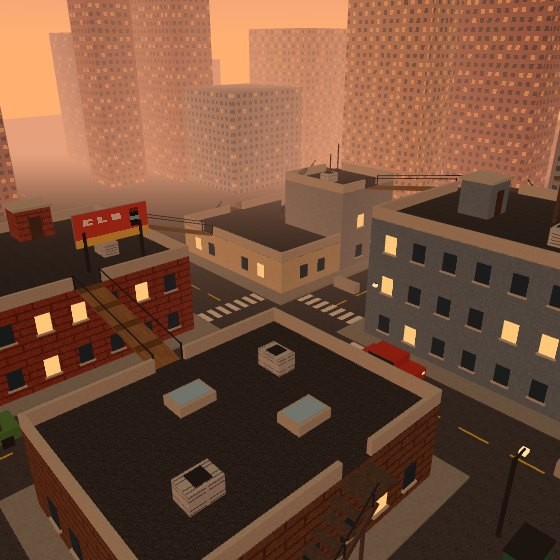
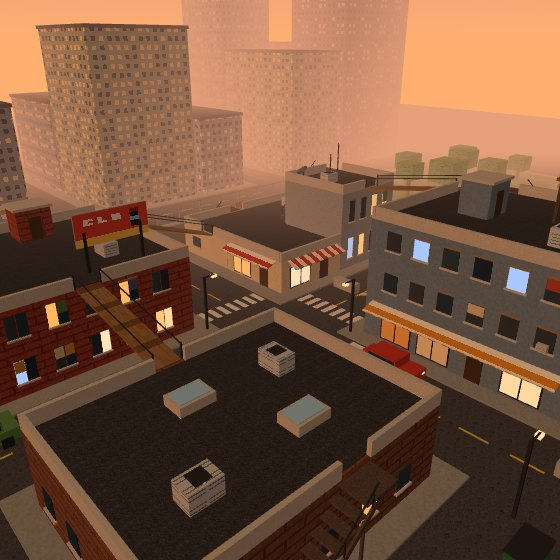
Rooftops: the sun sits in the sky behind the skyline; the dish has a mount; windows vary (paired, tall, wide, curtains, window AC units, lintels) with shop fronts, striped awnings and doors; no more flickering lines where roofs meet their walls; a bigger play area inside a chain-link fence, a ring r

diff --git a/js/maps/roofs.js b/js/maps/roofs.js
@@ -1,12 +1,12 @@
 startMap('roofs', {
-  name: 'Rooftops', size: 'small', half: 24,
-  env: { sky: 0xf2a878, fog: 0xe7a07c, fogNear: 30, fogFar: 110, hemiSky: 0xffd6b0, hemiGround: 0x5a4660, hemi: 1, sunColor: 0xffb47a, sun: 1.25, sunDir: [-22, 9, 14] },
+  name: 'Rooftops', size: 'small', half: 27,
+  env: { sky: 0xf2a878, fog: 0xe7a07c, fogNear: 30, fogFar: 110, hemiSky: 0xffd6b0, hemiGround: 0x5a4660, hemi: 1, sunColor: 0xffb47a, sun: 1.25, sunDir: [-24, 8, 3] },
   pads: [[-12, -11, 6], [9, -9, 3], [-12, 10, 4.5], [0, 14, 0]],
   crates: [[-20, 21.5, 1], [-18.8, 22, 0], [-8, 22.5, 0], [-12, -22.5, 0], [15, -22.5, 1], [16.2, -22.6, 0], [22.6, -15, 0], [22.6, -13.8, 0], [22.5, 12, 1]],
 });
 {
 const M = MAPS.roofs, RA = M.half, rnd = seeded(5150);
-const G = 140;
+const G = 140, RING = 31.5; // ground size, the ring road round the fence
 const wall = (rgb, k = 12, lines) => tex(g => { noise(g, rgb, k); if (lines) lines(g); });
 addGround(G, lam({ map: tex(g => { noise(g, [72, 70, 74], 14); g.fillStyle = 'rgba(0,0,0,.18)'; for (let i = 0; i < 5; i++) g.fillRect(Math.random() * 16 | 0, Math.random() * 16 | 0, 2, 1); }, G * 2, G * 2) }));
 addWall(0, -RA, RA * 2 + .3, .3); addWall(0, RA, RA * 2 + .3, .3);
@@ -21,22 +21,25 @@ const metal = surf(lam({ map: tex(g => { noise(g, [86, 72, 66], 14); g.fillStyle
 const plank = surf(lam({ map: tex(g => { noise(g, [146, 108, 70], 18); g.fillStyle = 'rgba(60,35,15,.45)'; for (const y of [0, 4, 8, 12]) g.fillRect(0, y, 16, 1); }) }), 'wood');
 const steel = surf(lam({ color: 0x8b9298 }), 'metal'), dark = lam({ color: 0x2c2c30 });
 const curb = surf(plaster([150, 148, 144]), 'stone');
+const acMat0 = surf(lam({ map: tex(g => { noise(g, [196, 198, 200], 8); g.fillStyle = 'rgba(0,0,0,.35)'; for (const y of [3, 6, 9, 12]) g.fillRect(1, y, 14, 1); }) }), 'metal');
 
 // buildings: footprint, roof height, wall. The north-east block is an L round its tower
 const BLD = [
-  { r: 1, x0: -19, x1: -4.5, z0: -19, z1: -4.5, h: 6, m: brick([150, 66, 50]) },
-  { r: 2, x0: 4.5, x1: 19.5, z0: -19, z1: -12, h: 3, m: plaster([214, 196, 160]) },
-  { r: 2, x0: 4.5, x1: 12, z0: -12, z1: -4.5, h: 3, m: plaster([214, 196, 160]) },
-  { r: 3, x0: 12, x1: 19.5, z0: -12, z1: -4.5, h: 7.5, m: plaster([150, 156, 164]) },
-  { r: 4, x0: -19.5, x1: -4.5, z0: 4.5, z1: 16, h: 4.5, m: brick([118, 78, 58]) },
-  { r: 5, x0: 4.5, x1: 18, z0: 4.5, z1: 19, h: 9, m: plaster([112, 130, 150]) },
+  { r: 1, x0: -19, x1: -4.5, z0: -19, z1: -4.5, h: 6, m: brick([150, 66, 50]), win: [.6, 1.5, 2.4, 1], door: 3, aw: 0x2f6a46 },
+  { r: 2, x0: 4.5, x1: 19.5, z0: -19, z1: -12, h: 3, m: plaster([214, 196, 160]), win: [1.3, 1, 2.8], open: [1] },
+  { r: 2, x0: 4.5, x1: 12, z0: -12, z1: -4.5, h: 3, m: plaster([214, 196, 160]), shop: [2, 1], aw: 0xc0392b, open: [0, 3] },
+  { r: 3, x0: 12, x1: 19.5, z0: -12, z1: -4.5, h: 7.5, m: plaster([150, 156, 164]), win: [.7, 2, 1.6], fh: 3.6, door: 3 },
+  { r: 4, x0: -19.5, x1: -4.5, z0: 4.5, z1: 16, h: 4.5, m: brick([118, 78, 58]), win: [1, 1.2, 2.5], shop: [3, 0], aw: 0x3a6ab0 },
+  { r: 5, x0: 4.5, x1: 18, z0: 4.5, z1: 19, h: 9, m: plaster([112, 130, 150]), win: [1.1, 1.3, 2.1], shop: [2, 0], aw: 0xd88a2a },
 ];
 const roofAt = (x, z) => BLD.reduce((b, B) => x > B.x0 && x < B.x1 && z > B.z0 && z < B.z1 && (!b || B.h > b.h) ? B : b, null);
 // stairs and bridges onto the roofs (they leave gaps in the parapets)
 const GAPS = [];
-for (const B of BLD) {
-  addSlab((B.x0 + B.x1) / 2, (B.z0 + B.z1) / 2, B.x1 - B.x0, B.z1 - B.z0, 0, B.h, B.m, true, 2);
-  const cap = tbox(B.x1 - B.x0, .04, B.z1 - B.z0, tar); cap.position.set((B.x0 + B.x1) / 2, B.h + .015, (B.z0 + B.z1) / 2); add(cap);
+const PT = .25, PH = .8, CAP = .04;
+for (const B of BLD) { // walls, then the roof inside the parapets (sides where blocks join stay flush)
+  addSlab((B.x0 + B.x1) / 2, (B.z0 + B.z1) / 2, B.x1 - B.x0, B.z1 - B.z0, 0, B.h - CAP, B.m, true, 2);
+  const o = i => B.open?.includes(i) ? 0 : PT, x0 = B.x0 + o(2), x1 = B.x1 - o(3), z0 = B.z0 + o(0), z1 = B.z1 - o(1);
+  addSlab((x0 + x1) / 2, (z0 + z1) / 2, x1 - x0, z1 - z0, B.h - CAP, B.h, tar, false);
 }
 
 // fire escapes: open metal steps along a wall, a landing at the top, then a step sideways onto the roof
@@ -82,14 +85,13 @@ bridge(-12, -4.5, 6, -12, 4.5, 4.5); CONNS.push([1, 4, [[-12, -6, 6], [-12, 6, 4
 bridge(-4.5, -15, 6, 4.5, -15, 3); CONNS.push([1, 2, [[-6, -15, 6], [6, -15, 3]]]);
 bridge(16, -4.5, 7.5, 16, 4.5, 9); CONNS.push([3, 5, [[16, -6, 7.5], [16, 6, 9]]]);
 // parapets round the roofs, open where the stairs and bridges arrive
-const PT = .25, PH = .8;
 function parapet(x0, z0, x1, z1, y) {
-  const ax = z0 === z1, a = ax ? x0 : z0, b = ax ? x1 : z1, c = ax ? z0 : x0;
+  const ax = z0 === z1, a = ax ? x0 : z0 + PT, b = ax ? x1 : z1 - PT, c = ax ? z0 : x0;
   const cuts = GAPS.filter(([gx, gz]) => Math.abs((ax ? gz : gx) - c) < 1.2 && (ax ? gx : gz) > a - .5 && (ax ? gx : gz) < b + .5).map(([gx, gz]) => ax ? gx : gz).sort((p, q) => p - q);
   let s = a;
   for (const g of [...cuts, null]) {
     const e = g === null ? b : Math.max(s, g - .9);
-    if (e - s > .3) { const m = (s + e) / 2; addSlab(ax ? m : c, ax ? c : m, ax ? e - s : PT, ax ? PT : e - s, y, y + PH, capMat); }
+    if (e - s > .3) { const m = (s + e) / 2; addSlab(ax ? m : c, ax ? c : m, ax ? e - s : PT, ax ? PT : e - s, y - CAP, y + PH, capMat); }
     if (g !== null) s = Math.min(b, g + .9);
   }
 }
@@ -100,22 +102,52 @@ parapet(12, -12 + inset, 19.5, -12 + inset, 7.5); parapet(12, -4.5 - inset, 19.5
 parapet(-19.5, 4.5 + inset, -4.5, 4.5 + inset, 4.5); parapet(-19.5, 16 - inset, -4.5, 16 - inset, 4.5); parapet(-19.5 + inset, 4.5, -19.5 + inset, 16, 4.5); parapet(-4.5 - inset, 4.5, -4.5 - inset, 16, 4.5);
 parapet(4.5, 4.5 + inset, 18, 4.5 + inset, 9); parapet(4.5, 19 - inset, 18, 19 - inset, 9); parapet(4.5 + inset, 4.5, 4.5 + inset, 19, 9); parapet(18 - inset, 4.5, 18 - inset, 19, 9);
 
-// windows: a grid on every outside wall, some lit
+// windows: each building has its own shape, and every window is a little different
 {
-  const glass = [], lit = [], sills = [];
-  for (const B of BLD) for (const [ax, c, a, b, out] of [['x', B.z0, B.x0, B.x1, -1], ['x', B.z1, B.x0, B.x1, 1], ['z', B.x0, B.z0, B.z1, -1], ['z', B.x1, B.z0, B.z1, 1]]) {
-    const n = Math.floor((b - a - 1) / 2.2);
-    for (let fl = 0; fl * 3 + 2.2 < B.h; fl++) for (let i = 0; i < n; i++) {
-      const u = a + (b - a) / 2 + (i - (n - 1) / 2) * 2.2, y = fl * 3 + 1.5;
-      if (roofAt(ax === 'x' ? u : c + out * .5, ax === 'x' ? c + out * .5 : u)) continue; // that side faces another part of the building
-      const x = ax === 'x' ? u : c + out * .03, z = ax === 'x' ? c + out * .03 : u, w = ax === 'x' ? .9 : .06, d = ax === 'x' ? .06 : .9;
-      (rnd() < .3 ? lit : glass).push([x, y, z, w, 1.2, d, 0, 0xffffff]);
-      sills.push([ax === 'x' ? u : c + out * .08, y - .66, ax === 'x' ? c + out * .08 : u, ax === 'x' ? 1.1 : .16, .1, ax === 'x' ? .16 : 1.1, 0, 0xffffff]);
+  const frames = [], glass = [], lit = [], curt = [], sills = [], units = [], shops = [], doors = [], awn = [];
+  const LIT = [0xffc879, 0xffd9a0, 0xffb860, 0xffe6bf, 0xa8c8ff], DARK = [0x2a3a4c, 0x34424e, 0x243040, 0x3a4048], CURT = [0xb0483a, 0x5a7a4a, 0xd8c8a0, 0x4a5a8a, 0xc89040];
+  const pick = a => a[rnd() * a.length | 0];
+  BLD.forEach(B => [['x', B.z0, B.x0, B.x1, -1], ['x', B.z1, B.x0, B.x1, 1], ['z', B.x0, B.z0, B.z1, -1], ['z', B.x1, B.z0, B.z1, 1]].forEach(([ax, c, a, b, out], side) => {
+    const at = (u, y, off, w, h, d) => [ax === 'x' ? u : c + out * off, y, ax === 'x' ? c + out * off : u, ax === 'x' ? w : d, h, ax === 'x' ? d : w, 0];
+    const outside = u => !roofAt(ax === 'x' ? u : c + out * .5, ax === 'x' ? c + out * .5 : u); // not a wall shared with the rest of the block
+    const shop = B.shop?.includes(side), fh = B.fh || 3, mid = (a + b) / 2;
+    if (shop) { // shop windows and an awning along the street
+      const n = Math.floor((b - a - 1) / 3);
+      for (let i = 0; i < n; i++) {
+        const u = mid + (i - (n - 1) / 2) * 3; if (!outside(u)) continue;
+        if (i === (n >> 1)) doors.push(at(u, 1.05, .03, 1.1, 2.1, .06)); else { (rnd() < .6 ? lit : glass).push([...at(u, 1.3, .03, 2.3, 1.8, .06), rnd() < .6 ? pick(LIT.slice(0, 4)) : pick(DARK)]); frames.push(at(u, 1.3, .015, 2.5, 2, .03), at(u, 1.3, .07, .08, 1.8, .04)); }
+      }
+      if (outside(mid)) awn.push([ax, c, out, mid, b - a - 1.2, B.aw]);
+    } else if (B.door === side && outside(mid)) doors.push(at(mid, 1.05, .03, 1.1, 2.1, .06));
+    if (!B.win) return;
+    const [ww, wh, gap, pair] = B.win, n = Math.floor((b - a - 1) / gap);
+    for (let fl = shop ? 1 : 0; fl * fh + wh + 1 < B.h; fl++) for (let i = 0; i < n; i++) {
+      const u0 = mid + (i - (n - 1) / 2) * gap, y = fl * fh + 1.1 + wh / 2;
+      if (!outside(u0) || !fl && B.door === side && Math.abs(u0 - mid) < 1.4 || rnd() < .06) continue;
+      for (const u of pair ? [u0 - ww * .55, u0 + ww * .55] : [u0]) {
+        const r = rnd();
+        if (r < .3) lit.push([...at(u, y, .03, ww, wh, .06), pick(LIT)]); else glass.push([...at(u, y, .03, ww, wh, .06), pick(DARK)]);
+        if (rnd() < .25) curt.push([...at(u, y + wh * .25, .05, ww * .96, wh * .5, .04), pick(CURT)]); // blinds or curtains
+      }
+      sills.push([...at(u0, y - wh / 2 - .06, .08, pair ? ww * 2.3 : ww + .2, .1, .16), 0xffffff]);
+      if (B.m.map && fl && rnd() < .5) sills.push([...at(u0, y + wh / 2 + .07, .04, pair ? ww * 2.3 : ww + .2, .14, .08), 0xb8aa98]); // lintel
+      if (rnd() < .08) units.push([...at(u0, y - wh / 2 + .25, .2, .6, .42, .4), 0xffffff]); // a window air conditioner
     }
-  }
-  instanced(unit, lam({ color: 0x2a3a4c }), glass);
-  instanced(unit, new THREE.MeshBasicMaterial({ color: 0xffc879 }), lit);
+  }));
+  instanced(unit, lam({}), glass);
+  instanced(unit, dark, frames.map(f => [...f, 0xffffff]));
+  instanced(unit, new THREE.MeshBasicMaterial({}), lit);
+  instanced(unit, lam({}), curt);
   instanced(unit, lam({ color: 0xc8c0b4 }), sills);
+  instanced(unit, acMat0, units);
+  instanced(unit, lam({ color: 0x4a3426 }), doors.map(d => [...d, 0xffffff]));
+  const stripes = new Map(); // striped awnings, sloping down over the sidewalk
+  for (const [ax, c, out, u, len, color] of awn) {
+    if (!stripes.has(color)) stripes.set(color, lam({ map: tex(g => { g.fillStyle = '#' + color.toString(16).padStart(6, '0'); g.fillRect(0, 0, 16, 16); g.fillStyle = '#f2ece0'; for (const x of [0, 8]) g.fillRect(x, 0, 4, 16); }) }));
+    const m = tbox(ax === 'x' ? len : 1.2, .08, ax === 'x' ? 1.2 : len, stripes.get(color), 2); m.position.set(ax === 'x' ? u : c + out * .58, 2.75, ax === 'x' ? c + out * .58 : u);
+    if (ax === 'x') m.rotation.x = out * .35; else m.rotation.z = -out * .35;
+    add(m);
+  }
 }
 // sidewalks along the streets
 for (const [X0, X1, Z0, Z1] of [[-19, -4.5, -19, -4.5], [4.5, 19.5, -19, -4.5], [-19.5, -4.5, 4.5, 16], [4.5, 18, 4.5, 19]]) {
@@ -130,7 +162,7 @@ for (const [X0, X1, Z0, Z1] of [[-19, -4.5, -19, -4.5], [4.5, 19.5, -19, -4.5], 
   const paint = (c) => lam({ color: c, polygonOffset: true, polygonOffsetFactor: -2, polygonOffsetUnits: -2 });
   const flat = (w, d, m, x, z) => { const p = new THREE.Mesh(new THREE.PlaneGeometry(w, d), m); p.rotation.x = -Math.PI / 2; p.position.set(x, .02, z); add(p); };
   const yel = paint(0xe8c040), wht = paint(0xe8e6e0);
-  for (let s = -60; s < 60; s += 3) { if (Math.abs(s + .9) > 6) { flat(.15, 1.8, yel, 0, s + .9); flat(1.8, .15, yel, s + .9, 0); } }
+  for (let s = -66; s < 66; s += 3) { if (Math.abs(s + .9) > 6 && Math.abs(Math.abs(s + .9) - RING) > 4.5) { flat(.15, 1.8, yel, 0, s + .9); flat(1.8, .15, yel, s + .9, 0); } }
   for (const [x, z, ax] of [[0, -5.6, 1], [0, 5.6, 1], [-5.6, 0, 0], [5.6, 0, 0]]) for (let i = -3; i <= 3; i++) flat(ax ? .5 : 1.6, ax ? 1.6 : .5, wht, x + (ax ? i * .9 : 0), z + (ax ? 0 : i * .9));
 }
 
@@ -156,15 +188,15 @@ for (const [x, z, ry] of [[-22, -17, 0], [21.8, -9.5, 0], [-6, 21.5, Math.PI / 2
 }
 for (const [x, z, ax] of [[-1.2, -21, 1], [9.5, -1.5, 0], [-10, 1.8, 0], [1.4, 20.5, 1]]) addBlock(x, z, ax ? 2.4 : .7, ax ? .7 : 2.4, .85, concrete);
 const lampMat = new THREE.MeshBasicMaterial({ color: 0xffe2a0 });
-for (const [x, z] of [[-5.3, -5.3], [5.3, 5.3], [-5.3, 20], [20, -5.3]]) {
+for (const [x, z, dx, dz] of [[-3.8, -3.8, 1, 0], [3.8, 3.8, -1, 0], [-3.8, 20, 1, 0], [21, -3.8, 0, 1]]) { // on the sidewalk, leaning over the road
   addSlab(x, z, .16, .16, 0, 4.4, dark, false);
-  const arm = box(.9, .08, .08, dark); arm.position.set(x + (x < 0 ? .45 : -.45), 4.35, z); add(arm);
-  const head = box(.4, .18, .3, lampMat); head.position.set(x + (x < 0 ? .85 : -.85), 4.25, z); add(head);
+  const arm = box(dx ? .9 : .08, .08, dz ? .9 : .08, dark); arm.position.set(x + dx * .45, 4.35, z + dz * .45); add(arm);
+  const head = box(dx ? .4 : .3, .18, dz ? .4 : .3, lampMat); head.position.set(x + dx * .85, 4.25, z + dz * .85); add(head);
 }
 addCrates(M.crates);
 
 // --- rooftop things ---
-const acMat = surf(lam({ map: tex(g => { noise(g, [196, 198, 200], 8); g.fillStyle = 'rgba(0,0,0,.35)'; for (const y of [3, 6, 9, 12]) g.fillRect(1, y, 14, 1); }) }), 'metal');
+const acMat = acMat0;
 for (const [x, z, y, w, d, h] of [[-15, -16, 6, 1.6, 1.1, 1], [-8.5, -9, 6, 1.1, 1.6, 1], [17, -16.5, 3, 1.6, 1.1, 1], [-16, 13, 4.5, 1.6, 1.1, 1], [-8, 8.5, 4.5, 1.1, 1.6, 1], [8.5, 15.5, 9, 1.6, 1.2, 1.1], [14.5, -8.5, 7.5, 1.4, 1, .9]]) {
   addSlab(x, z, w, d, y, y + h, acMat);
   const fan = box(Math.min(w, d) * .7, .04, Math.min(w, d) * .7, dark); fan.position.set(x, y + h + .02, z); add(fan);
@@ -202,18 +234,58 @@ for (const [x, z] of [[-13, 8], [-10, 12.5]]) { addSlab(x, z, 2, 1.4, 4.5, 5.05,
 }
 // antennas and a dish on the tower
 for (const [x, z, h] of [[18, -10.5, 3], [17.2, -10.8, 2]]) { const a = box(.08, h, .08, dark); a.position.set(x, 7.5 + h / 2, z); add(a); }
-{ const dish = new THREE.Mesh(new THREE.CylinderGeometry(.6, .1, .25, 10), steel); dish.position.set(13.5, 8.1, -11); dish.rotation.x = -.9; add(dish); }
+{ const pole = box(.12, .7, .12, dark); pole.position.set(13.5, 7.85, -11); add(pole); const base = box(.5, .1, .5, dark); base.position.set(13.5, 7.55, -11); add(base); const dish = new THREE.Mesh(new THREE.CylinderGeometry(.6, .1, .25, 10), steel); dish.position.set(13.5, 8.3, -11.1); dish.rotation.x = -.9; add(dish); }
 
-// --- the city round the edge ---
+// --- round the edge: a fence, a ring road, then city blocks ---
 {
+  const link = seeThru(tex(g => { g.fillStyle = '#9aa0a6'; for (let i = 0; i < 16; i++) { g.fillRect(i, i, 1, 1); g.fillRect(15 - i, i, 1, 1); } }));
+  link.map.repeat.set(RA * 4, 4.8);
+  for (const [x, z, ry] of [[0, -RA, 0], [0, RA, 0], [-RA, 0, Math.PI / 2], [RA, 0, Math.PI / 2]]) {
+    const f = new THREE.Mesh(new THREE.PlaneGeometry(RA * 2, 2.4), link); f.position.set(x, 1.2, z); f.rotation.y = ry; add(f);
+    const top = box(ry ? .08 : RA * 2, .08, ry ? RA * 2 : .08, steel); top.position.set(x, 2.4, z); add(top);
+    for (let u = -RA; u <= RA; u += 3) { const p = box(.1, 2.5, .1, steel); p.position.set(ry ? x : u, 1.25, ry ? u : z); add(p); }
+  }
+  // a curb under the fence (the blocks' own sidewalks line the far side of the ring road)
+  const strip = (x0, x1, z0, z1) => { const b = tbox(x1 - x0, .15, z1 - z0, curb, 2); b.position.set((x0 + x1) / 2, .075, (z0 + z1) / 2); add(b); };
+  const a = RA, b = RA + .8;
+  for (const sg of [-1, 1]) {
+    const lo = Math.min(sg * a, sg * b), hi = Math.max(sg * a, sg * b);
+    for (const [u0, u1] of [[-b, -3.1], [3.1, b]]) strip(u0, u1, lo, hi); // along z, corners included
+    for (const [u0, u1] of [[-a, -3.1], [3.1, a]]) strip(lo, hi, u0, u1); // along x, leaving the main roads open
+  }
+  // ring road markings
+  const yel = lam({ color: 0xe8c040, polygonOffset: true, polygonOffsetFactor: -2, polygonOffsetUnits: -2 });
+  for (const sg of [-1, 1]) for (let u = -66; u < 66; u += 3) {
+    if (Math.abs(u + .9) < 4.5 || Math.abs(Math.abs(u + .9) - RING) < 4.5) continue;
+    for (const [w, d, x, z] of [[1.8, .15, u + .9, sg * RING], [.15, 1.8, sg * RING, u + .9]]) { const m = new THREE.Mesh(new THREE.PlaneGeometry(w, d), yel); m.rotation.x = -Math.PI / 2; m.position.set(x, .02, z); add(m); }
+  }
+  // city blocks between the roads: a raised sidewalk, buildings on lots, now and then a little park
   const skyline = (rgb, litA) => tex(g => { noise(g, rgb, 8); for (let y = 2; y < 16; y += 4) for (let x = 1; x < 16; x += 4) { g.fillStyle = Math.random() < litA ? '#ffcf86' : 'rgba(30,36,50,.85)'; g.fillRect(x, y, 2, 2); } });
-  const mats = [[150, 90, 80], [190, 176, 150], [120, 128, 140], [96, 84, 96], [170, 120, 90]].map(c => lam({ map: skyline(c, .35) }));
-  const r2 = seeded(31);
-  for (let k = 0; k < 90; k++) {
-    const a = r2() * Math.PI * 2, d = 40 + r2() * 32, x = Math.cos(a) * d, z = Math.sin(a) * d;
-    if (Math.max(Math.abs(x), Math.abs(z)) < 36 || Math.abs(x) < 7 || Math.abs(z) < 7) continue; // keep the roads clear
-    const w = 6 + r2() * 8, dd = 6 + r2() * 8, h = 8 + r2() * 26, m = mats[k % mats.length];
-    const b = tbox(w, h, dd, m, 4); b.position.set(x, h / 2, z); add(b);
+  const mats = [[150, 90, 80], [190, 176, 150], [120, 128, 140], [96, 84, 96], [170, 120, 90], [140, 150, 130]].map(c => lam({ map: skyline(c, .35) }));
+  const roofM = lam({ color: 0x4a4648 }), grass = lam({ map: tex(g => noise(g, [86, 130, 60], 26)) }), r2 = seeded(31);
+  const LINES = [-70, -RING, 0, RING, 70], edge = v => v === 0 ? 4.6 : 5;
+  let parks = 0;
+  for (let i = 0; i < 4; i++) for (let j = 0; j < 4; j++) {
+    if ((i === 1 || i === 2) && (j === 1 || j === 2)) continue; // the map itself
+    const x0 = LINES[i] + edge(LINES[i]), x1 = LINES[i + 1] - edge(LINES[i + 1]), z0 = LINES[j] + edge(LINES[j]), z1 = LINES[j + 1] - edge(LINES[j + 1]);
+    const pad = tbox(x1 - x0 + 3, .15, z1 - z0 + 3, curb, 2); pad.position.set((x0 + x1) / 2, .075, (z0 + z1) / 2); add(pad);
+    const near = i === 1 || i === 2 || j === 1 || j === 2;
+    if (near && parks < 2 && r2() < .35) { // a park
+      parks++;
+      const gr = box(x1 - x0, .05, z1 - z0, grass); gr.position.set((x0 + x1) / 2, .17, (z0 + z1) / 2); add(gr);
+      for (let t = 0; t < 7; t++) {
+        const tx = x0 + 2 + r2() * (x1 - x0 - 4), tz = z0 + 2 + r2() * (z1 - z0 - 4), h = 2 + r2() * 1.5, s = 2.4 + r2() * 1.4;
+        const tr = box(.4, h, .4, barkMat); tr.position.set(tx, h / 2, tz); add(tr);
+        const lf = box(s, s * .8, s, leafMat); lf.position.set(tx, h + s * .35, tz); add(lf);
+      }
+      continue;
+    }
+    const cut = (a, b) => { const m = a + (b - a) * (.35 + r2() * .3); return [[a, m - .6], [m + .6, b]]; };
+    for (const [ax0, ax1] of cut(x0, x1)) for (const [az0, az1] of cut(z0, z1)) {
+      const h = near ? 9 + r2() * 14 : 16 + r2() * 22, w = ax1 - ax0, d = az1 - az0;
+      const b = tbox(w, h, d, mats[r2() * mats.length | 0], 4); b.position.set((ax0 + ax1) / 2, h / 2, (az0 + az1) / 2); add(b);
+      const top = box(w + .3, .4, d + .3, roofM); top.position.set((ax0 + ax1) / 2, h + .2, (az0 + az1) / 2); add(top);
+    }
   }
 }
 // sunset: a sky dome that fades from gold to purple, and the sun low over the roofs
@@ -225,10 +297,13 @@ const dome = (() => {
   const m = new THREE.Mesh(geo, new THREE.MeshBasicMaterial({ vertexColors: true, side: THREE.BackSide, fog: false, depthWrite: false }));
   m.renderOrder = -1; m.frustumCulled = false; m.onBeforeRender = (r, sc, cam) => m.matrixWorld.setPosition(cam.position); add(m); return m;
 })();
-const sunDisc = new THREE.Mesh(new THREE.CircleGeometry(5, 20), new THREE.MeshBasicMaterial({ color: 0xffe0a0, fog: false, depthWrite: false, transparent: true }));
-const SUN_D = new THREE.Vector3(-22, 6, 14).normalize();
-sunDisc.renderOrder = -.5; sunDisc.frustumCulled = false; add(sunDisc);
-sunDisc.onBeforeRender = (r, sc, cam) => { sunDisc.position.copy(cam.position).addScaledVector(SUN_D, 50); sunDisc.lookAt(cam.position); sunDisc.updateMatrixWorld(); };
+const SUN_D = new THREE.Vector3(-1, .3, .12).normalize(); // low, down the west road
+const sunSpr = new THREE.Sprite(new THREE.SpriteMaterial({ map: sunTex, color: 0xffd0a0, fog: false, depthWrite: false, depthTest: false, transparent: false, alphaTest: .5 }));
+const sunGlow = new THREE.Sprite(new THREE.SpriteMaterial({ map: sunGlowTex, color: 0xffb080, fog: false, depthWrite: false, depthTest: false, transparent: false, blending: THREE.AdditiveBlending }));
+[[sunSpr, 6, -.5], [sunGlow, 26, -.6]].forEach(([o, k, ro]) => {
+  o.scale.setScalar(k); o.renderOrder = ro; o.frustumCulled = false; add(o);
+  o.onBeforeRender = (r, sc, cam) => { o.position.copy(cam.position).addScaledVector(SUN_D, 52); o.updateMatrixWorld(); };
+});
 
 // --- bots: which roof you're on, and the way between them ---
 const SEGS = []; // every stretch of stairs or bridge

diff --git a/index.html b/index.html
@@ -198,7 +198,7 @@
 import * as THREE from './lib/three.module.js'; // three.js r160 (MIT)
 window.THREE = THREE;
 // bump V (and the css ?v=) on every update to skip old caches
-const V = 165;
+const V = 166;
 const FILES = ['js/core.js', 'js/icons.js', 'js/sound.js', 'js/music.js','js/profile.js', 'js/character.js', 'js/names.js', 'js/maps/world.js', 'js/maps/yard.js', 'js/maps/forest.js', 'js/maps/resort.js', 'js/maps/sky.js', 'js/maps/roofs.js', 'js/player.js', 'js/armor.js', 'js/boots.js', 'js/hats.js', 'js/hud.js', 'js/weapons.js',
   'js/modes/zombies.js', 'js/combat.js', 'js/modes/deathmatch.js', 'js/hold.js', 'js/chat.js', 'js/lobby.js', 'js/armory.js', 'js/boost.js', 'js/daily.js', 'js/input.js', 'js/chests.js', 'js/main.js', 'js/cloud.js', 'js/net.js', 'js/friends.js', 'js/boards.js'];
 if (!document.body.classList.contains('touchOnly')) { // touch-only devices stop here

diff --git a/js/input.js b/js/input.js
@@ -321,7 +321,7 @@ $('lobbyBtn').addEventListener('click', e => { e.stopPropagation(); net.leave();
 
 // the play button brings up mode select, then map select
 const ALL_MAPS = ['roofs', 'forest', 'resort', 'sky'];
-const V_MAPS = 7; // bump when the map pictures change
+const V_MAPS = 8; // bump when the map pictures change
 const MODES = [
   // zombies only on the yard for now
   { id: 'zombies', name: 'ZOMBIE WAVES', desc: 'Test your loadout and strategy against endless zombie waves', maps: ['yard'] },
